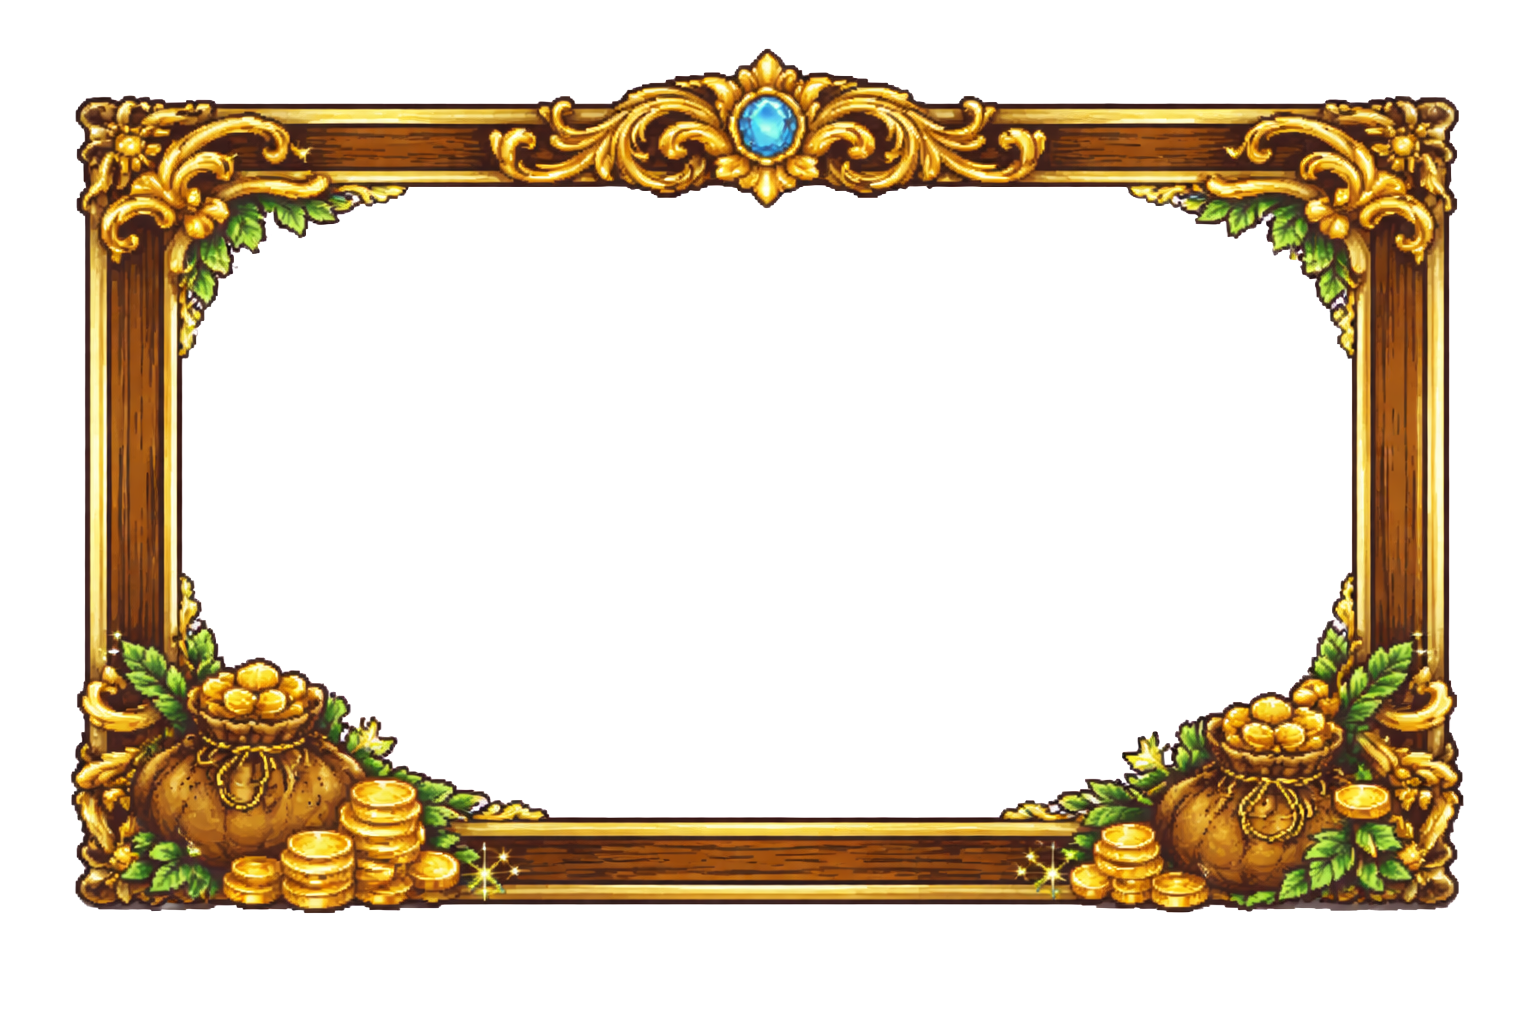
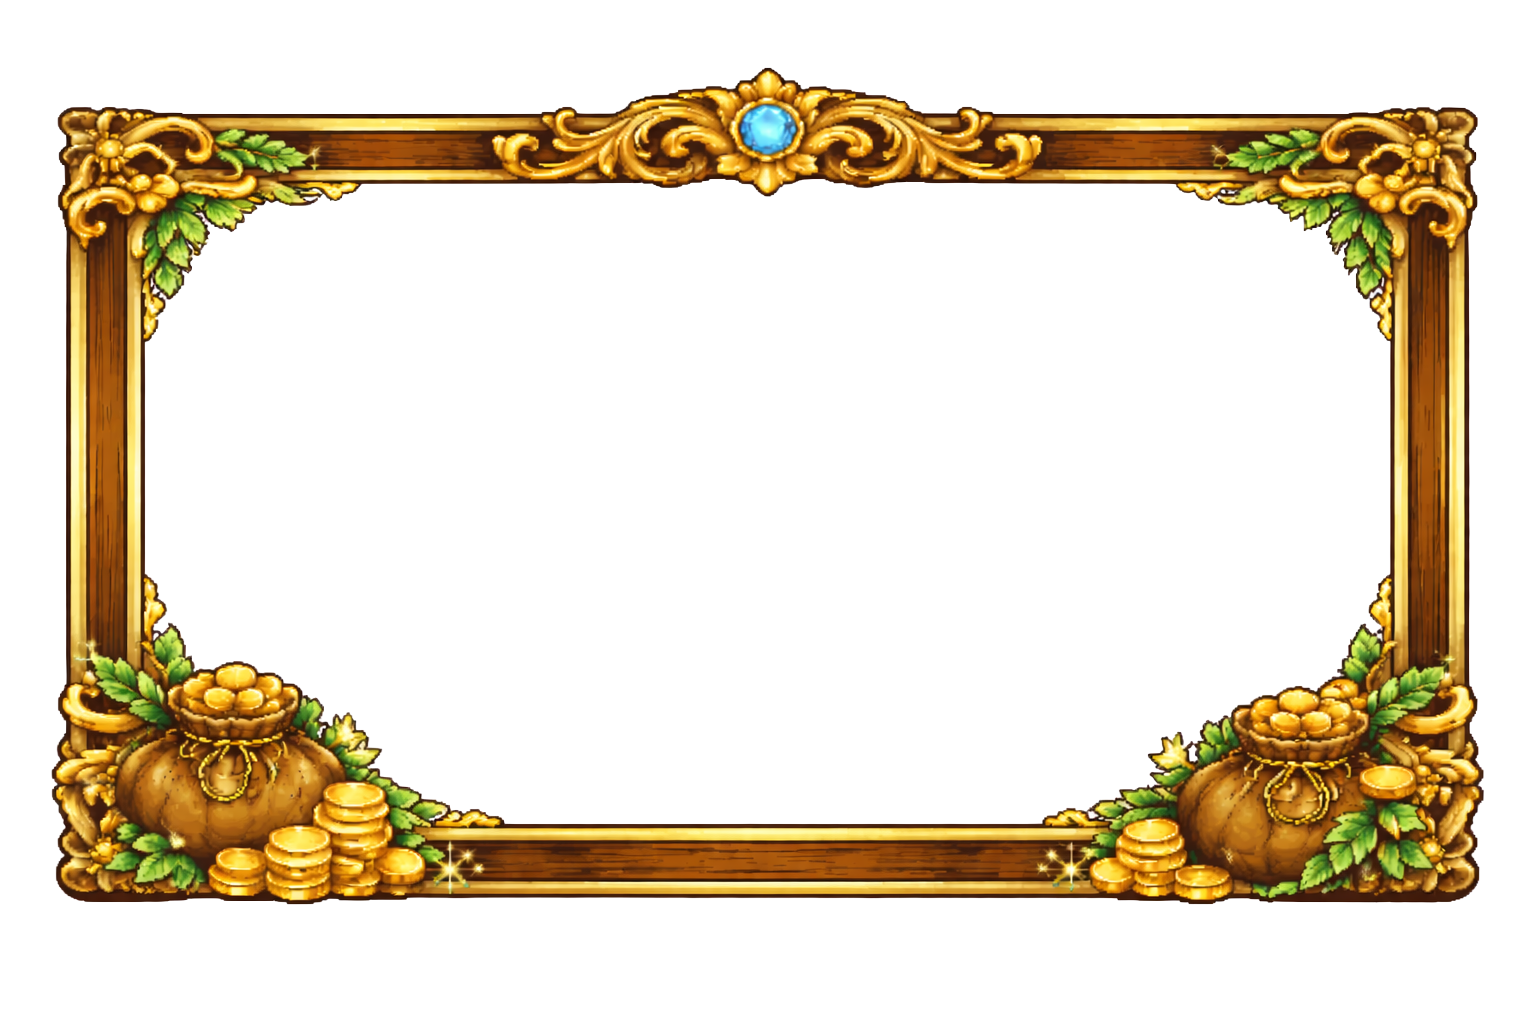
フレームと決済の修正

Changed region(s): [[0.0312, 0.0312, 0.9688, 0.9062]]

diff --git a/app/purchase-history/page.tsx b/app/purchase-history/page.tsx
@@ -1,0 +1,204 @@
+"use client";
+
+import Link from "next/link";
+import { useEffect, useMemo, useState } from "react";
+import { BottomNav } from "@/components/common/BottomNav";
+import { DevDebugPanel } from "@/components/debug/DevDebugPanel";
+import { useAuth } from "@/components/auth/AuthProvider";
+import { loadCloudPurchaseHistory } from "@/lib/game/cloudCommerce";
+import {
+  getAttributeCharmItem,
+  getBackgroundShopItem,
+  getBoosterShopItem,
+  getDecorationShopItem,
+  getFrameShopItem,
+  getPaidBackgroundShopItem,
+  getPaidBundleShopItem,
+  getPaidCoinShopItem,
+  getPaidFrameShopItem,
+  getBackgroundImagePath,
+  getFrameThemeClass
+} from "@/lib/game/shop";
+import { useGame } from "@/lib/game/useGame";
+import type { PurchaseHistoryRecord } from "@/types/commerce";
+
+function formatHistoryDate(value: string): string {
+  const parsed = new Date(value);
+  if (Number.isNaN(parsed.getTime())) return "日時不明";
+  return parsed.toLocaleString("ja-JP", {
+    year: "numeric",
+    month: "numeric",
+    day: "numeric",
+    hour: "2-digit",
+    minute: "2-digit"
+  });
+}
+
+function getStatusLabel(status: PurchaseHistoryRecord["status"]): string {
+  switch (status) {
+    case "pending":
+      return "処理待ち";
+    case "paid":
+      return "決済完了";
+    case "fulfilled":
+      return "反映済み";
+    case "refunded":
+      return "返金対応";
+    case "failed":
+      return "失敗";
+    default:
+      return status;
+  }
+}
+
+function resolveProductTitle(productId: string): string {
+  return (
+    getPaidCoinShopItem(productId)?.title
+    ?? getPaidBundleShopItem(productId)?.title
+    ?? getPaidBackgroundShopItem(productId)?.title
+    ?? getPaidFrameShopItem(productId)?.title
+    ?? getBackgroundShopItem(productId)?.title
+    ?? getFrameShopItem(productId)?.title
+    ?? getDecorationShopItem(productId)?.title
+    ?? getBoosterShopItem(productId)?.title
+    ?? getAttributeCharmItem(productId)?.title
+    ?? productId
+  );
+}
+
+function resolveGrantedItemTitles(record: PurchaseHistoryRecord): string[] {
+  const paidCoinTitle = record.grantedPaidCoins > 0 ? [`モンタコイン ${record.grantedPaidCoins}`] : [];
+  const itemTitles = record.grantedItemIds
+    .map((itemId) => resolveProductTitle(itemId))
+    .filter(Boolean);
+  return [...paidCoinTitle, ...itemTitles];
+}
+
+export default function PurchaseHistoryPage() {
+  const { user } = useAuth();
+  const { gameState, monsters, isLoading } = useGame();
+  const [history, setHistory] = useState<PurchaseHistoryRecord[]>([]);
+  const [historyLoading, setHistoryLoading] = useState(false);
+  const [historyError, setHistoryError] = useState("");
+
+  useEffect(() => {
+    if (!user) {
+      setHistory([]);
+      return;
+    }
+
+    let cancelled = false;
+    setHistoryLoading(true);
+    setHistoryError("");
+
+    loadCloudPurchaseHistory(user.uid)
+      .then((records) => {
+        if (!cancelled) {
+          setHistory(records);
+        }
+      })
+      .catch((error) => {
+        console.error("[purchase-history] failed to load", error);
+        if (!cancelled) {
+          setHistoryError("購入履歴を読み込めませんでした。少し時間をおいてもう一度お試しください。");
+        }
+      })
+      .finally(() => {
+        if (!cancelled) {
+          setHistoryLoading(false);
+        }
+      });
+
+    return () => {
+      cancelled = true;
+    };
+  }, [user]);
+
+  const unresolvedHistory = useMemo(
+    () => history.filter((record) => record.status !== "fulfilled"),
+    [history]
+  );
+
+  if (isLoading || !gameState) {
+    return <main>Loading...</main>;
+  }
+
+  return (
+    <main
+      className={`page-shell ${getFrameThemeClass(gameState.selectedFrameId)}`}
+      style={{ backgroundImage: `url("${getBackgroundImagePath(gameState.selectedBackgroundId)}")` }}
+    >
+      <div className="title-panel">購入履歴</div>
+
+      <section className="card decorated-card legal-page-card">
+        <div className="legal-section">
+          <h2>ご案内</h2>
+          <p>モンタコインやセット商品の購入状況を確認できます。反映に時間がかかる時は、購入IDと購入日時を添えてお問い合わせください。</p>
+          <div className="shop-support-links">
+            <Link href="/contact" className="ui-link-button ui-link-secondary">
+              お問い合わせ
+            </Link>
+            <Link href="/shop" className="ui-link-button ui-link-secondary">
+              ショップへ戻る
+            </Link>
+          </div>
+        </div>
+        <div className="legal-section">
+          <h2>未反映・返金について</h2>
+          <p>決済完了後、通常はすぐに反映されます。数分待っても反映されない場合は、このページの購入IDと購入日時を添えてご連絡ください。</p>
+          <p>デジタル商品の性質上、お客様都合での返金は原則お受けしていません。法令上必要な場合や決済事業者の定めがある場合は、その定めに沿って対応します。</p>
+          {unresolvedHistory.length > 0 ? (
+            <p>現在、確認が必要な購入が {unresolvedHistory.length} 件あります。ステータスをご確認ください。</p>
+          ) : null}
+        </div>
+      </section>
+
+      {!user ? (
+        <section className="card decorated-card legal-page-card">
+          <div className="legal-section">
+            <h2>ログインが必要です</h2>
+            <p>購入履歴の確認にはログインが必要です。設定画面からログインすると、購入履歴も確認できます。</p>
+            <div className="notification-card-actions">
+              <Link href="/settings" className="ui-link-button settings-menu-button settings-menu-button-primary">
+                設定でログインする
+              </Link>
+            </div>
+          </div>
+        </section>
+      ) : (
+        <section className="card decorated-card legal-page-card">
+          <div className="legal-section">
+            <h2>履歴一覧</h2>
+            {historyLoading ? <p>読み込み中です...</p> : null}
+            {historyError ? <p className="auth-card-error">{historyError}</p> : null}
+            {!historyLoading && !historyError && history.length === 0 ? (
+              <p>まだ購入履歴はありません。</p>
+            ) : null}
+            <div className="purchase-history-list">
+              {history.map((record) => {
+                const grantedItems = resolveGrantedItemTitles(record);
+                return (
+                  <article key={record.purchaseId} className="purchase-history-card">
+                    <div className="purchase-history-head">
+                      <strong>{resolveProductTitle(record.productId)}</strong>
+                      <span className={`purchase-history-status purchase-history-status-${record.status}`}>{getStatusLabel(record.status)}</span>
+                    </div>
+                    <p className="purchase-history-meta">購入日時: {formatHistoryDate(record.purchasedAt)}</p>
+                    <p className="purchase-history-meta">購入ID: {record.purchaseId}</p>
+                    <p className="purchase-history-meta">支払い額: {record.currencyType === "jpy" ? `${record.amountTotalMinor}円` : `${record.amountTotalMinor}`}</p>
+                    {grantedItems.length > 0 ? (
+                      <p className="purchase-history-meta">付与内容: {grantedItems.join(" / ")}</p>
+                    ) : null}
+                  </article>
+                );
+              })}
+            </div>
+          </div>
+        </section>
+      )}
+
+      <DevDebugPanel gameState={gameState} monsters={monsters} />
+      <BottomNav />
+    </main>
+  );
+}

diff --git a/app/contact/page.tsx b/app/contact/page.tsx
@@ -29,11 +29,37 @@ export default function ContactPage() {
           <li>表示崩れや不具合のご報告</li>
           <li>機能改善やタスク追加に関するご要望</li>
           <li>プライバシーや利用規約に関する確認</li>
+          <li>決済後にモンタコインや購入特典が反映されない場合の確認</li>
+          <li>返金が必要かどうかのご相談</li>
         </ul>
       </div>
 
       <div className="legal-section">
-        <h2>3. ご案内</h2>
+        <h2>3. 決済に関するお問い合わせ</h2>
+        <p>
+          決済や反映に関するお問い合わせでは、購入履歴ページに表示される
+          {" "}
+          <strong>購入ID</strong>
+          {" "}
+          と
+          {" "}
+          <strong>購入日時</strong>
+          を添えていただけると確認がスムーズです。
+        </p>
+        <p>
+          モンタコインや購入特典は通常すぐに反映されます。数分待っても反映されない場合は、お手数ですが購入履歴ページを確認したうえでご連絡ください。
+        </p>
+      </div>
+
+      <div className="legal-section">
+        <h2>4. 返金について</h2>
+        <p>
+          デジタル商品の性質上、お客様都合による返金は原則お受けしていません。法令上必要な場合や決済事業者の定めがある場合は、その定めに沿って対応します。
+        </p>
+      </div>
+
+      <div className="legal-section">
+        <h2>5. ご案内</h2>
         <p>
           タスク追加に関するご要望は、設定画面にある「タスク追加リクエスト」フォームからも受け付けています。内容に応じて使いやすい方をご利用ください。
         </p>

diff --git a/lib/game/cloudCommerce.ts b/lib/game/cloudCommerce.ts
@@ -1,4 +1,4 @@
-import { doc, getDoc, serverTimestamp, setDoc } from "firebase/firestore";
+import { collection, doc, getDoc, getDocs, serverTimestamp, setDoc } from "firebase/firestore";
 import type { GameState } from "@/types/game";
 import type { InventoryProfile, PurchaseHistoryRecord, WalletSummary } from "@/types/commerce";
 import { getFirebaseFirestore } from "@/lib/firebase/firestore";
@@ -39,6 +39,10 @@ function getInventoryDocRef(uid: string) {
 
 function getPurchaseHistoryDocRef(uid: string, purchaseId: string) {
   return doc(getFirebaseFirestore(), "users", uid, "purchaseHistory", purchaseId);
+}
+
+function getPurchaseHistoryCollectionRef(uid: string) {
+  return collection(getFirebaseFirestore(), "users", uid, "purchaseHistory");
 }
 
 export function buildWalletSummaryFromGameState(state: GameState): WalletSummary {
@@ -268,4 +272,15 @@ export async function appendCloudPurchaseHistory(uid: string, record: PurchaseHi
     }),
     { merge: true }
   );
+}
+
+export async function loadCloudPurchaseHistory(uid: string): Promise<PurchaseHistoryRecord[]> {
+  const snapshot = await getDocs(getPurchaseHistoryCollectionRef(uid));
+  return snapshot.docs
+    .map((docSnapshot) => docSnapshot.data() as PurchaseHistoryRecord)
+    .sort((left, right) => {
+      const leftTime = Date.parse(left.purchasedAt ?? "") || 0;
+      const rightTime = Date.parse(right.purchasedAt ?? "") || 0;
+      return rightTime - leftTime;
+    });
 }

diff --git a/app/globals.css b/app/globals.css
@@ -1141,6 +1141,62 @@ button:disabled {
   margin-top: 6px;
 }
 
+.purchase-history-list {
+  display: grid;
+  gap: 12px;
+  margin-top: 12px;
+}
+
+.purchase-history-card {
+  padding: 14px 16px;
+  border: 2px solid rgba(122, 81, 26, 0.38);
+  border-radius: 12px;
+  background: linear-gradient(180deg, rgba(255, 250, 241, 0.96), rgba(250, 240, 221, 0.98));
+  box-shadow: inset 0 0 0 1px rgba(255, 255, 255, 0.7);
+}
+
+.purchase-history-head {
+  display: flex;
+  align-items: center;
+  justify-content: space-between;
+  gap: 10px;
+  margin-bottom: 8px;
+}
+
+.purchase-history-status {
+  display: inline-flex;
+  align-items: center;
+  justify-content: center;
+  min-width: 72px;
+  padding: 4px 10px;
+  border-radius: 999px;
+  font-size: 12px;
+  font-family: var(--font-dot-gothic16), "Osaka-mono", "MS Gothic", "Courier New", monospace;
+}
+
+.purchase-history-status-pending,
+.purchase-history-status-paid {
+  background: rgba(253, 222, 128, 0.95);
+  color: #6a4205;
+}
+
+.purchase-history-status-fulfilled {
+  background: rgba(154, 227, 178, 0.95);
+  color: #175a31;
+}
+
+.purchase-history-status-failed,
+.purchase-history-status-refunded {
+  background: rgba(244, 185, 185, 0.95);
+  color: #7d2424;
+}
+
+.purchase-history-meta {
+  margin: 4px 0 0;
+  font-size: 13px;
+  color: #5a4630;
+}
+
 .review-task-item {
   flex-direction: column;
   align-items: stretch;

diff --git a/app/shop/thanks/page.tsx b/app/shop/thanks/page.tsx
@@ -72,9 +72,15 @@ export default function ShopThanksPage() {
           <p>
             反映まで少し時間がかかる場合があります。しばらく待ってからショップやホームの所持モンタコインをご確認ください。
           </p>
+          <p>
+            反映に時間がかかる場合は、購入履歴ページで購入IDと状態をご確認のうえ、お問い合わせください。
+          </p>
         </div>
 
         <div className="shop-support-links">
+          <Link href="/purchase-history" className="ui-link-button ui-link-secondary">
+            購入履歴を見る
+          </Link>
           <Link href="/shop" className="ui-link-button ui-link-secondary">
             ショップへ戻る
           </Link>

diff --git a/app/commerce/page.tsx b/app/commerce/page.tsx
@@ -57,7 +57,7 @@ export default function CommercePage() {
       <div className="legal-section">
         <h2>10. 商品の引渡時期</h2>
         <p>決済完了後、通常は即時にアカウントへ反映します。</p>
-        <p>システム上の都合により反映まで時間を要する場合があります。一定時間経っても反映されない場合は、お問い合わせ窓口までご連絡ください。</p>
+        <p>システム上の都合により反映まで時間を要する場合があります。一定時間経っても反映されない場合は、購入履歴ページで購入IDをご確認のうえ、お問い合わせ窓口までご連絡ください。</p>
       </div>
 
       <div className="legal-section">

diff --git a/app/settings/page.tsx b/app/settings/page.tsx
@@ -79,6 +79,9 @@ export default function SettingsPage() {
           <Link href="/contact" className="ui-link-button settings-menu-button settings-menu-button-neutral">
             お問い合わせ
           </Link>
+          <Link href="/purchase-history" className="ui-link-button settings-menu-button settings-menu-button-neutral">
+            購入履歴
+          </Link>
           <Link href="/commerce" className="ui-link-button settings-menu-button settings-menu-button-neutral">
             特定商取引法に基づく表記
           </Link>

diff --git a/app/shop/page.tsx b/app/shop/page.tsx
@@ -770,6 +770,7 @@ export default function ShopPage() {
 
           <section className="card decorated-card">
             <div className="shop-support-links">
+              <Link href="/purchase-history" className="ui-link-button ui-link-secondary">購入履歴</Link>
               <Link href="/commerce" className="ui-link-button ui-link-secondary">特定商取引法に基づく表記</Link>
               <Link href="/contact" className="ui-link-button ui-link-secondary">お問い合わせ</Link>
             </div>
